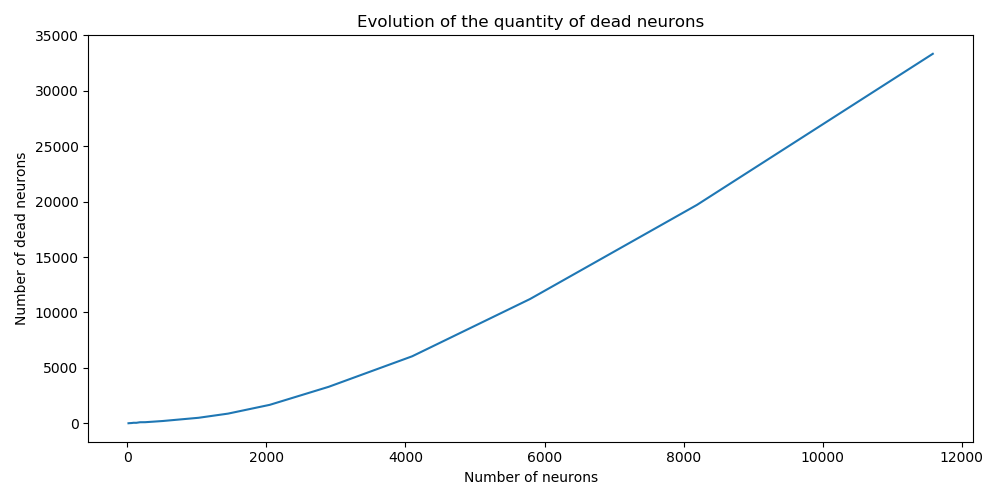
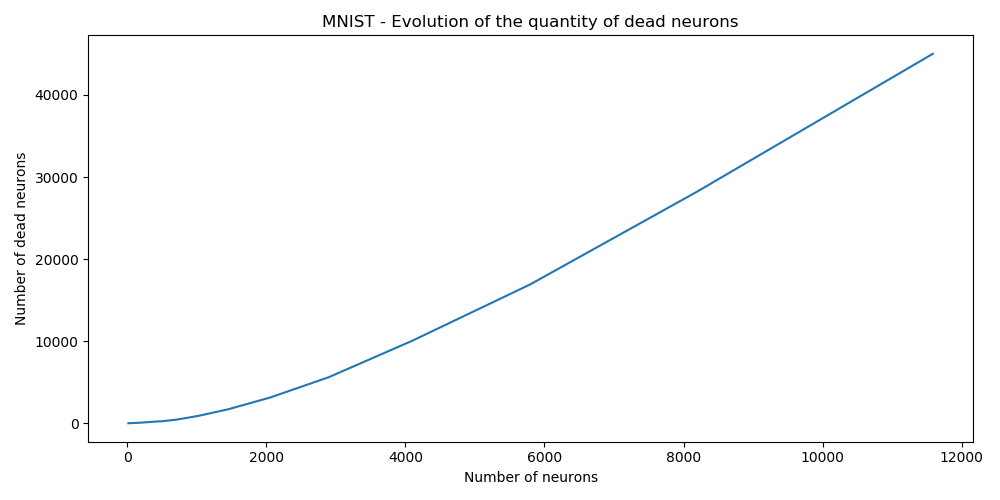
Fix plot filenames and add prefix to plot titles
- This is much eaiser to compare plots

diff --git a/variance_metric.py b/variance_metric.py
@@ -41,7 +41,7 @@ def train(models, dl):
     criterion = nn.CrossEntropyLoss()
     optimizers = [Adam(model.parameters()) for model in models]
 
-    for e in range(0, 15):
+    for e in range(0, 30):
         print("Epoch %s" % e)
         for i, (images, labels) in enumerate(dl):
             print(round(i / len(dl) * 100))
@@ -84,7 +84,7 @@ def plot_distributions(activations, prefix):
     plt.xlim((0, 8.5))
     plt.xlabel('Standard deviation (unitless)')
     plt.ylabel('Density')
-    plt.title('Distribution of standard deviation of activation after hidden layer')
+    plt.title(prefix +' - Distribution of standard deviation of activation after hidden layer')
     plt.legend()
     plt.tight_layout()
     plt.savefig('./plots/%s_1h_dist_activations.png' % prefix)
@@ -96,7 +96,7 @@ def plot_sum_variance(activations, prefix):
     sums = np.array([x.sum() for x in activations])
     plt.figure(figsize=(10, 5))
     plt.plot(sizes, sums)
-    plt.title('Sum of variance depending on the size of the layer')
+    plt.title(prefix +' - Sum of variance depending on the size of the layer')
     plt.xlabel('Number of neurons')
     plt.ylabel('Sum of variance')
     plt.tight_layout()
@@ -109,7 +109,7 @@ def plot_shapiro(activations, prefix):
     t_values = np.array([scipy.stats.shapiro(x)[0] for x in activations])
     plt.figure(figsize=(10, 5))
     plt.plot(sizes, t_values)
-    plt.title('Results of normality tests(Shapiro) for different layer size')
+    plt.title(prefix +' - Results of normality tests(Shapiro) for different layer size')
     plt.xlabel('Number of neurons')
     plt.ylabel('t_value')
     argmax = sizes[t_values.argmax()]
@@ -133,7 +133,7 @@ def plot_distributions_around_sweet(activations, prefix):
     plt.ylim((0, 0.5))
     plt.xlabel('Standard deviation (unitless)')
     plt.ylabel('Density')
-    plt.title('Distribution of standard deviation of activation after hidden layer around the most normal')
+    plt.title(prefix +' - Distribution of standard deviation of activation after hidden layer around the most normal')
     plt.legend()
     plt.tight_layout()
     plt.savefig('./plots/%s_1h_dist_activations_around_sweet.png' % prefix)
@@ -145,7 +145,7 @@ def plot_dead_neurons(activations, prefix):
     deads = np.array([(x == 0).sum() for x in activations])
     plt.figure(figsize=(10, 5))
     plt.plot(sizes, deads)
-    plt.title('Evolution of the quantity of dead neurons')
+    plt.title(prefix +' - Evolution of the quantity of dead neurons')
     plt.xlabel('Number of neurons')
     plt.ylabel('Number of dead neurons')
     plt.tight_layout()
@@ -177,7 +177,7 @@ def plot_compare_shapiro_accuracy(activations, accuracies, prefix):
     b.set_ylabel('accuracy')
     plt.xscale('log', basex=2)
     a.set_xlabel('Number of neurons')
-    plt.title('Comparison between normality test and measured accuracy')
+    plt.title(prefix +' - Comparison between normality test and measured accuracy')
     plt.tight_layout()
     plt.savefig('./plots/%s_1h_acc_vs_shapiro.png' % prefix)
     plt.close()
@@ -206,7 +206,7 @@ def plot_mixture_ratio(activations, accuracies, prefix):
     plt.xscale('log', basex=2)
     b.set_ylim((0, 20))
     a.set_xlabel('Number of neurons')
-    plt.title('Comparison between multiple metrics')
+    plt.title(prefix +' - Comparison between multiple metrics')
     plt.savefig('./plots/%s_1h_acc_vs_mixtures.png' % prefix)
     plt.close()
 
@@ -235,7 +235,5 @@ def benchmark(dataset, prefix):
     plot_mixture_ratio(activations, accuracies, prefix)
 
 if __name__ == '__main__':
-    pass
-
-    # benchmark(MNIST, 'MNIST')
-    # benchmark(FashionMNIST, 'FashionMNIST')
+    benchmark(MNIST, 'MNIST')
+    benchmark(FashionMNIST, 'FashionMNIST')
